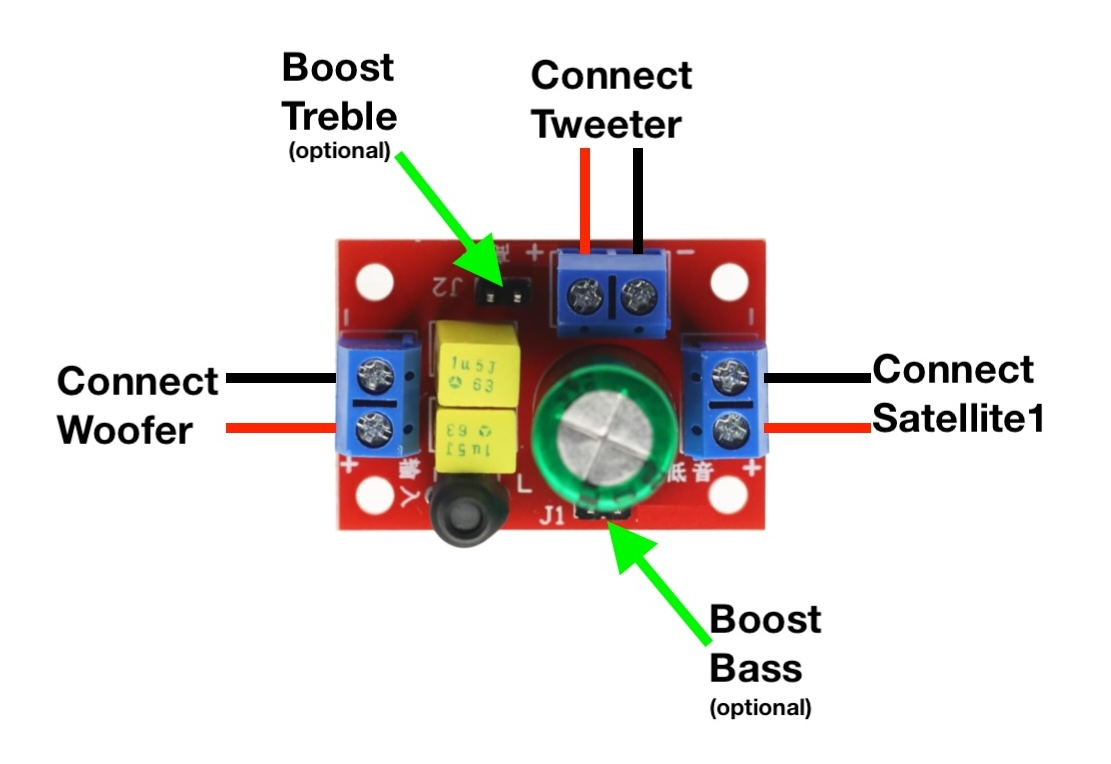
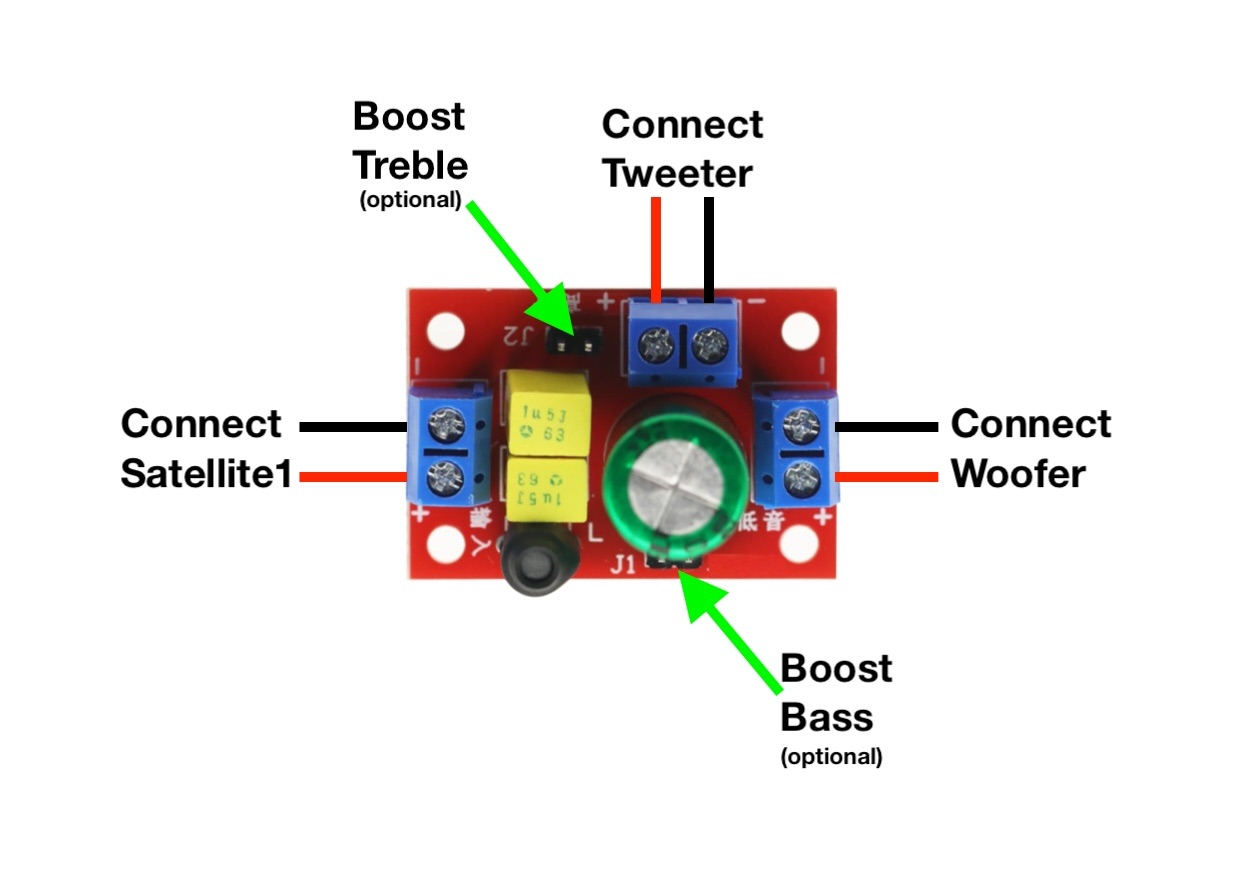
correcting crossover terminal wire mapping

Changed region(s): [[0.0306, 0.0602, 0.9487, 0.9634]]

diff --git a/docs/satellite1-smart-speaker-enclosure-kit.md b/docs/satellite1-smart-speaker-enclosure-kit.md
@@ -15,8 +15,8 @@ The [Satellite1 Smart Speaker Enclosure Kit](https://futureproofhomes.net/produc
 - 3D printed speaker enclosure
     - Front & back chamber piece (PETG 30% infill)
     - Top plate, LED diffuser & screw-guide tool (PETG 15% infill)
-- 3" Full-range, bass heavy woofer (~20W, 4Ω)
-- 1.2" Neodymium dome tweeter (~20W, 4Ω)
+- 3" Full-range, bass heavy woofer (15W RMS, 20W Peak @ 4Ω)
+- 1.2" Neodymium dome tweeter (15W RMS, 20W Peak @ 4Ω)
 - 2-Way passive crossover
 - JST-XH cable
 - 2 pcs red 5.3mm speaker cables
@@ -77,8 +77,8 @@ The [Satellite1 Smart Speaker Enclosure Kit](https://futureproofhomes.net/produc
     ![Image title](/assets/smart-speaker-enclosure-kit/crossover_wiring.jpg){ loading=lazy }
     1. Orient the crossover so no blue terminal faces south. 
 
-    2. Use a small phillips head screwdriver to connect the supplied JST-XH cable to the east-facing terminal. 
-    3. On the north and west terminals, secure the 5.3 mm red wires to positive (+) and the 2.8 mm black wires to negative (–). 
+    2. Use a small phillips head screwdriver to connect the supplied JST-XH cable to the west-facing terminal. 
+    3. On the north and east terminals, secure the 5.3 mm red wires to positive (+) and the 2.8 mm black wires to negative (–). 
     4. Optionally use the supplied jumpers to boost bass and/or treble.
 
 -   :material-numeric-5-circle:{ .lg .middle } __Install Crossover & Connect Speakers__
@@ -120,7 +120,7 @@ The [Satellite1 Smart Speaker Enclosure Kit](https://futureproofhomes.net/produc
 
     ---
 
-    ![Image title](/assets/smart-speaker-enclosure-kit/connect_JST_cable_3.jpg){ loading=lazy }
+    ![Image title](/assets/smart-speaker-enclosure-kit/connect_JST_cable.jpg){ loading=lazy }
     ![Image title](/assets/smart-speaker-enclosure-kit/mounted_dev_kit.jpg){ loading=lazy }
     1. Press the Core and Hat PCBs firmly together ([see details here](satellite1-assembly.md)) and connect the JST-XH cable.
     
@@ -162,7 +162,7 @@ The 3D-printable 3MF project files, STL and STEP files are published online for 
 
     The Satellite1 Smart Speaker Enclosure Kit is acoustically and mechanically engineered to work with a specific set of high-quality LG speaker drivers. These drivers were selected for their excellent sound quality, compatibility with the Satellite1 amplifier and crossover, and reliable availability in bulk from trusted suppliers.
 
-    Due to packaging and supply-chain complexities during launch, which can result in mismatches between available enclosures and speakers, we do not currently sell the speaker drivers or other electronic components separately. We may offer an “electronics-only” kit after launch.
+    Due to packaging and supply-chain complexities during launch, we do not currently sell the speaker drivers or other electronic components separately. We do plan to offer an “electronics-only” kit after launch.
 
     If you choose to purchase the recommended speaker drivers from third-party online retailers, please be aware that counterfeit or cloned products do exist. Additionally, modifying the enclosure to accommodate alternative speaker drivers may affect sound quality and wake-word performance.
 
